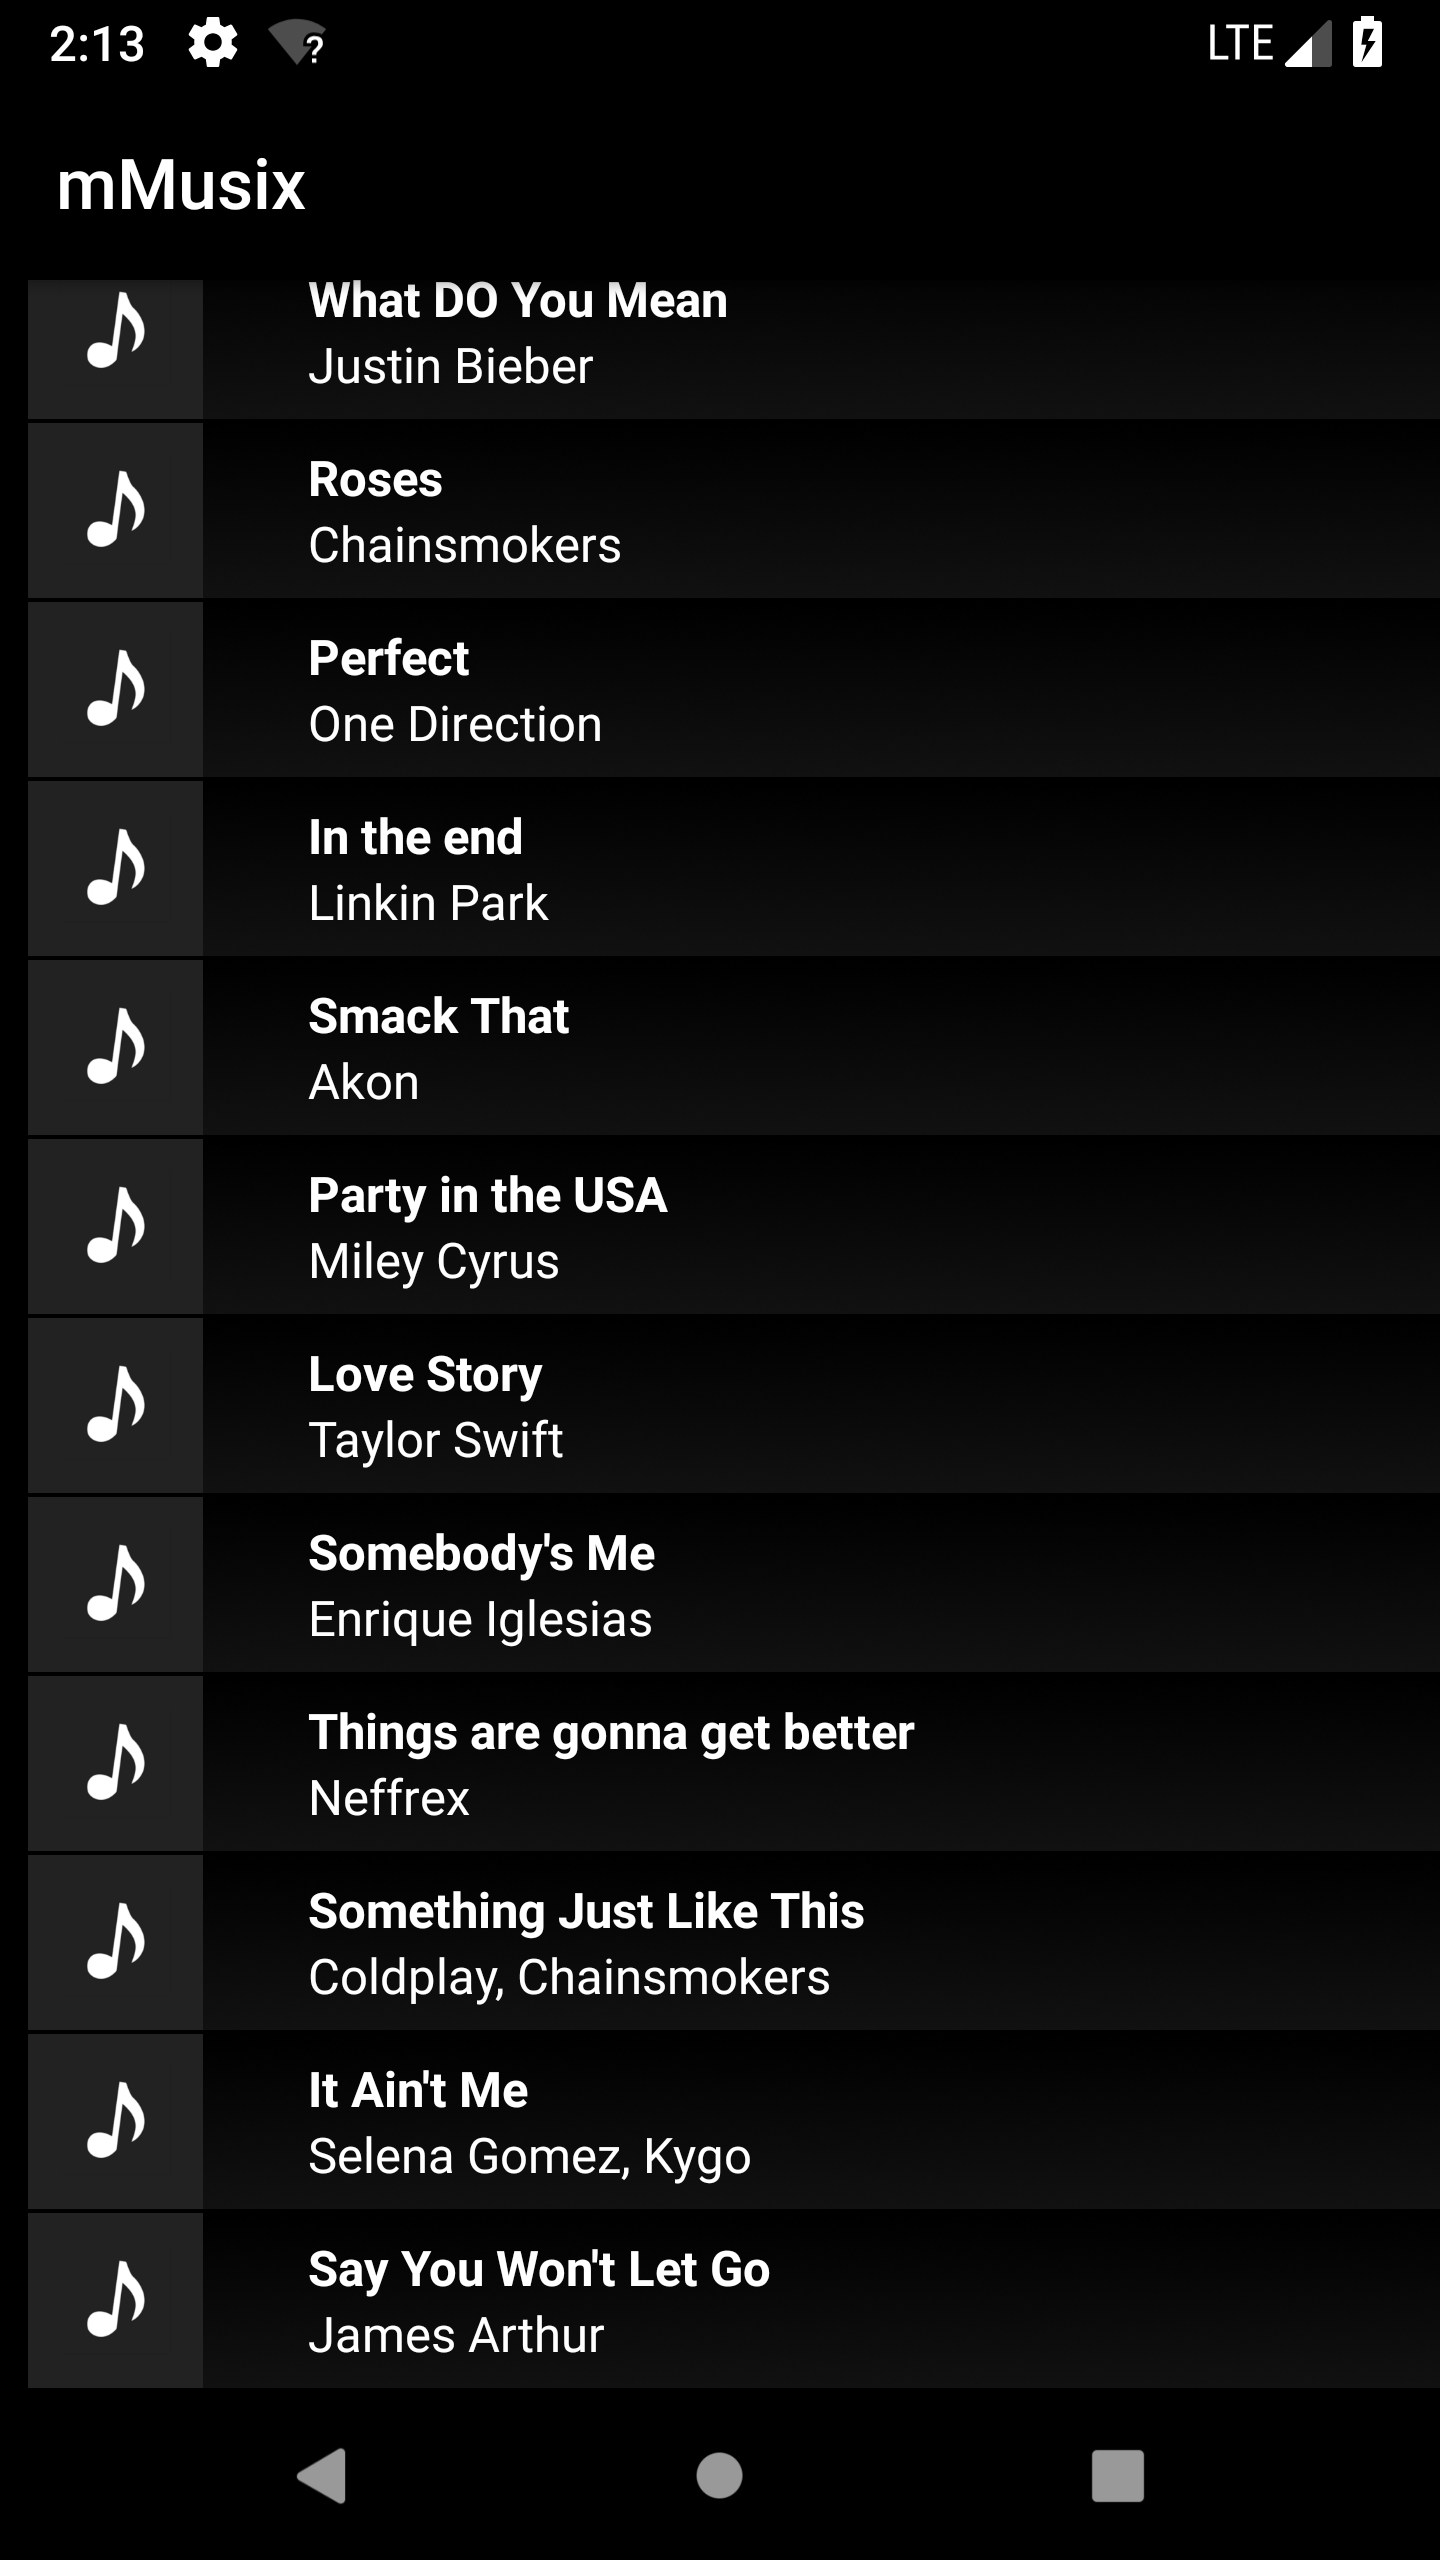
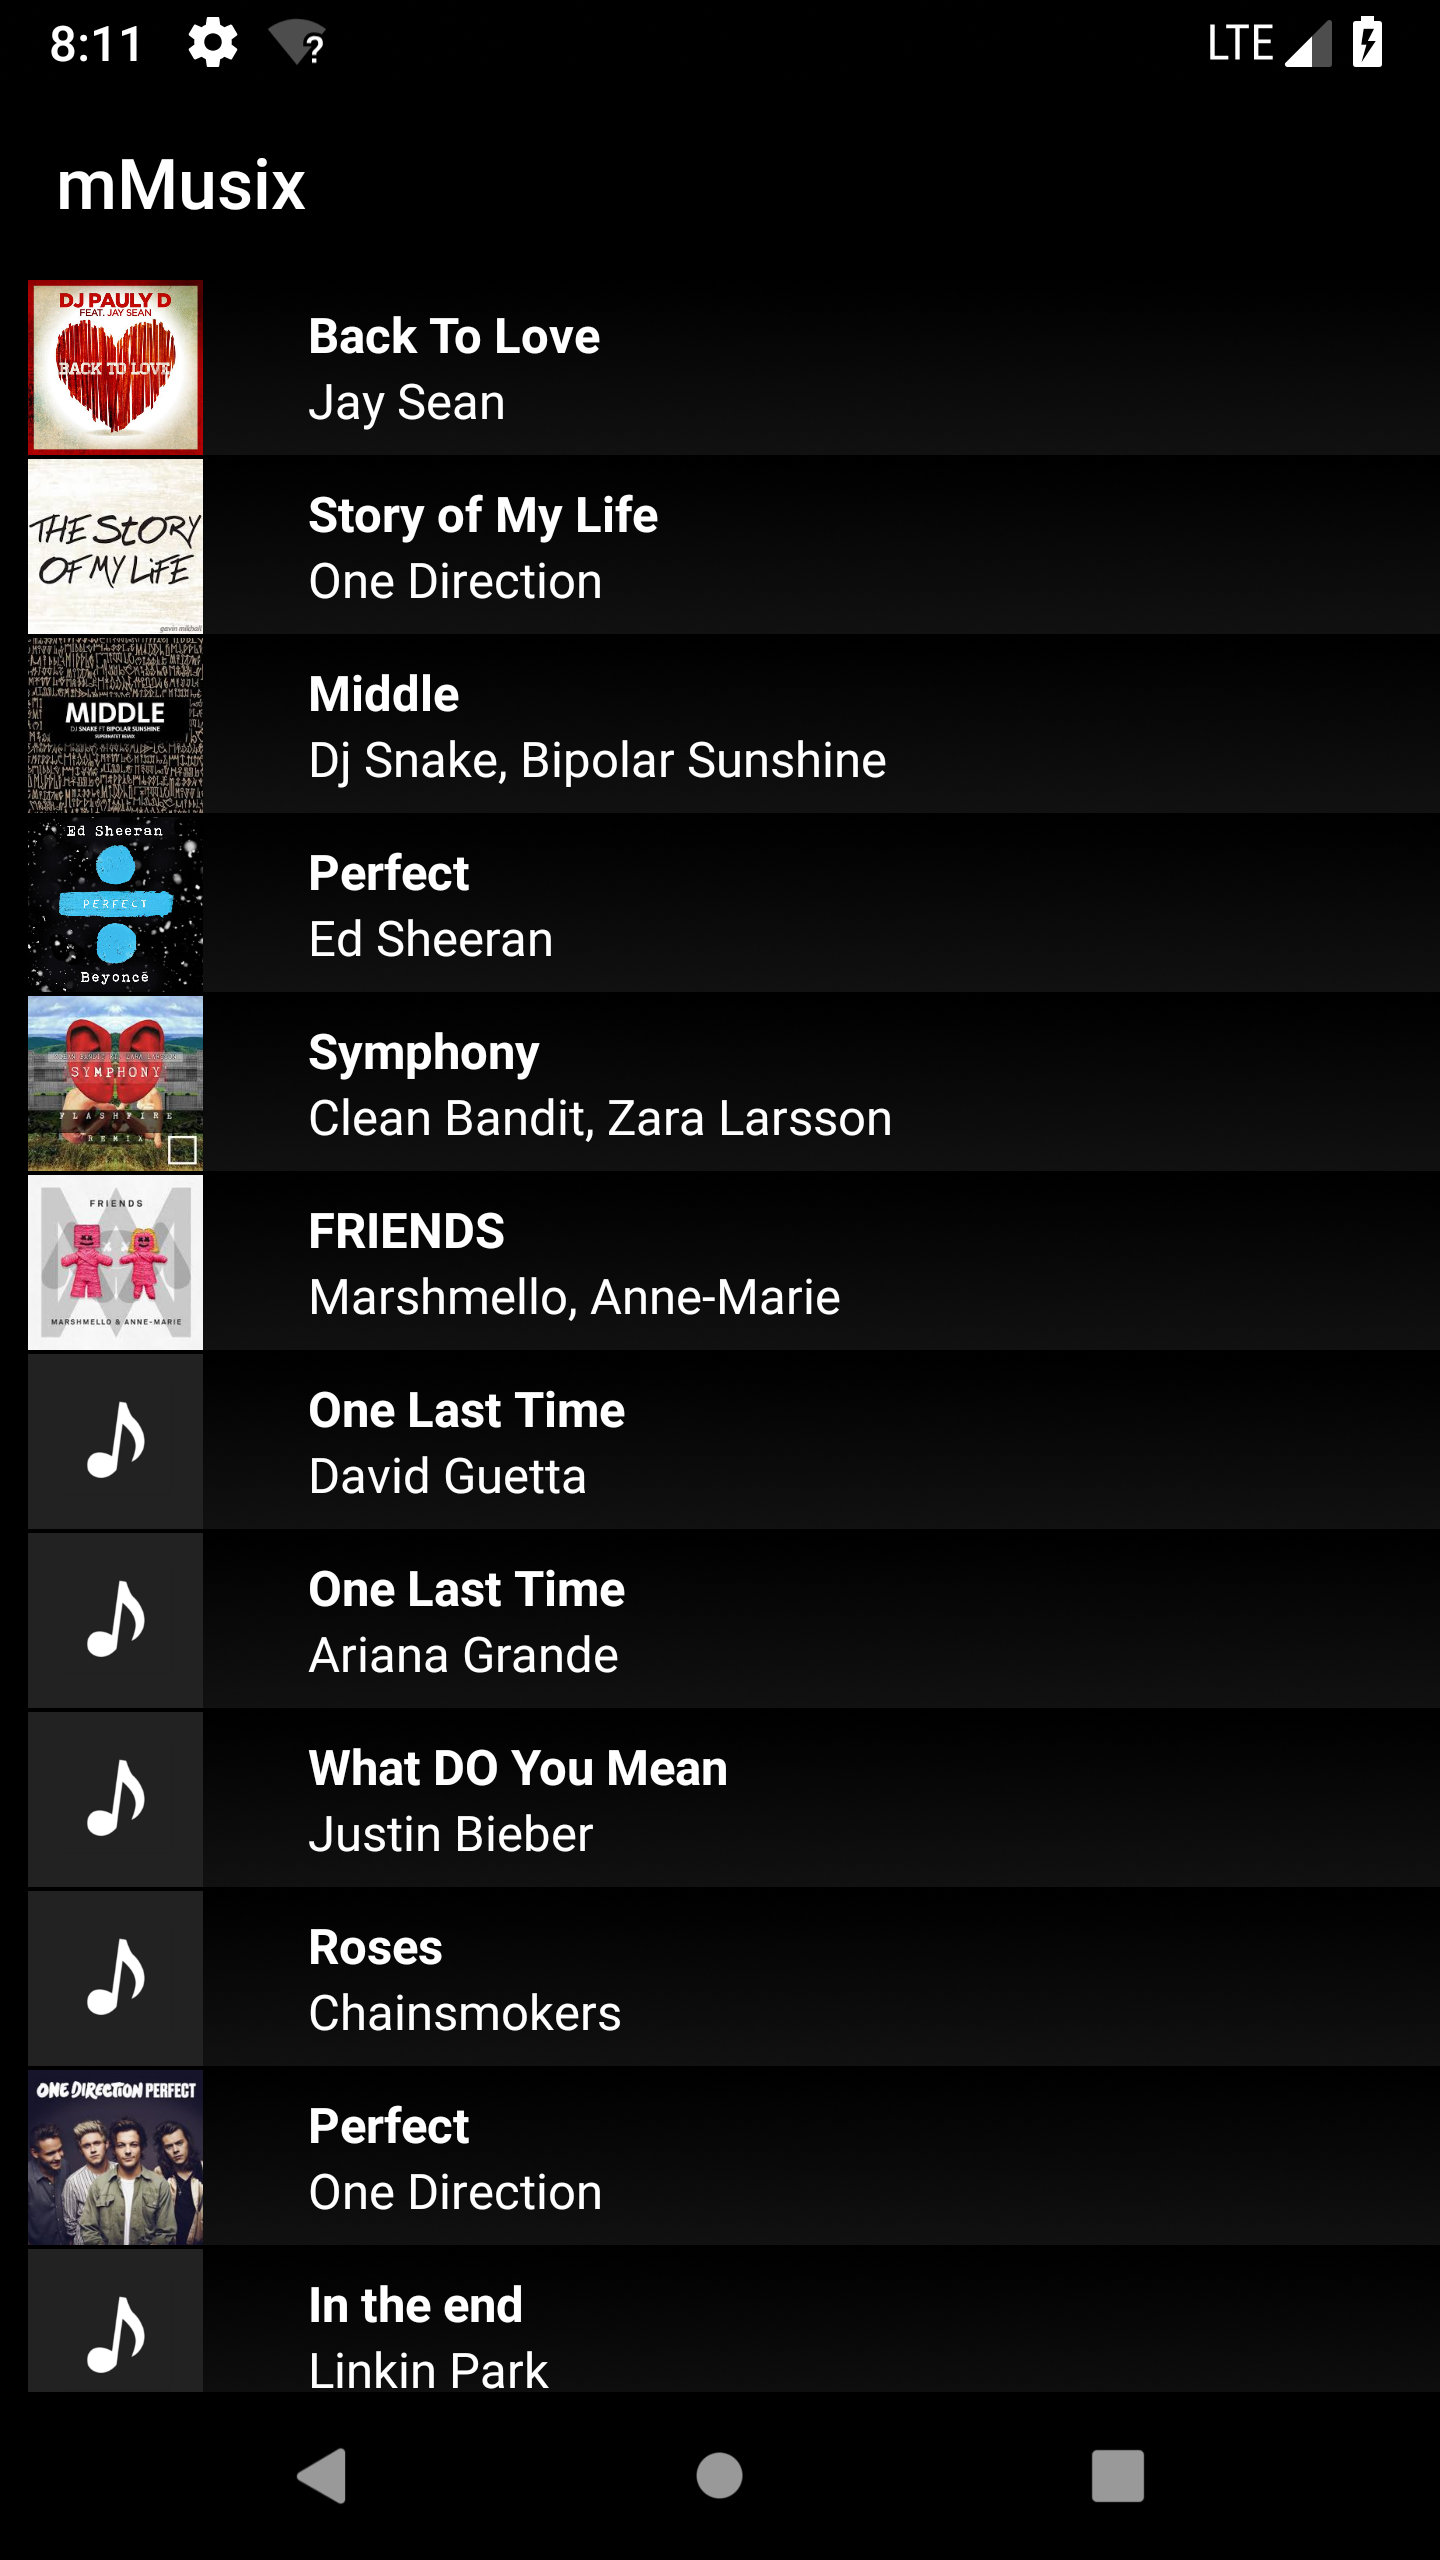
added back button

Changed region(s): [[0.2188, 0.0938, 0.625, 0.9375], [0.0, 0.0938, 0.1562, 0.9375], [0.0312, 0.0, 0.0625, 0.0312]]

diff --git a/app/src/main/java/com/example/dsdatsme/musicplayerui/activities/MainActivity.java b/app/src/main/java/com/example/dsdatsme/musicplayerui/activities/MainActivity.java
@@ -1,5 +1,6 @@
 package com.example.dsdatsme.musicplayerui.activities;
 
+import android.support.v7.app.ActionBar;
 import android.support.v7.app.AppCompatActivity;
 import android.os.Bundle;
 import android.support.v7.widget.DefaultItemAnimator;
@@ -24,6 +25,9 @@ public class MainActivity extends AppCompatActivity {
         super.onCreate(savedInstanceState);
         setContentView(R.layout.activity_main);
 
+        ActionBar actionBar = getSupportActionBar();
+
+
         recyclerView = (RecyclerView) findViewById(R.id.recycler_view);
         mAdapter = new MusicAdapter(musicList, getApplicationContext());
         RecyclerView.LayoutManager mLayoutManager = new LinearLayoutManager(getApplicationContext());
@@ -37,7 +41,7 @@ public class MainActivity extends AppCompatActivity {
         recyclerView.setAdapter(mAdapter);
     }
 
-    // URI is for future prposes if you want to add song url
+    // URI is for future purposes if you want to add song url
     private void prepareMusicData() {
         MusicDatabase music = new MusicDatabase("Jay Sean", "Back To Love", 5,R.drawable.back_to_love_album_art);
         musicList.add(music);
@@ -55,13 +59,13 @@ public class MainActivity extends AppCompatActivity {
         musicList.add(new MusicDatabase("Ariana Grande", "One Last Time", 5,R.drawable.default_music_albumart));
         musicList.add(new MusicDatabase("Justin Bieber", "What DO You Mean", 5,R.drawable.default_music_albumart));
         musicList.add(new MusicDatabase("Chainsmokers", "Roses", 5,R.drawable.default_music_albumart));
-        musicList.add(new MusicDatabase("One Direction", "Perfect", 5,R.drawable.default_music_albumart));
+        musicList.add(new MusicDatabase("One Direction", "Perfect", 5,R.drawable.od_perdect_album_art));
         musicList.add(new MusicDatabase("Linkin Park", "In the end", 5,R.drawable.default_music_albumart));
         musicList.add(new MusicDatabase("Akon", "Smack That", 5,R.drawable.default_music_albumart));
         musicList.add(new MusicDatabase("Miley Cyrus", "Party in the USA", 5,R.drawable.default_music_albumart));
-        musicList.add(new MusicDatabase("Taylor Swift", "Love Story", 5,R.drawable.default_music_albumart));
-        musicList.add(new MusicDatabase("Enrique Iglesias", "Somebody's Me", 5,R.drawable.default_music_albumart));
-        musicList.add(new MusicDatabase("Neffrex", "Things are gonna get better", 5,R.drawable.default_music_albumart));
+        musicList.add(new MusicDatabase("Taylor Swift", "Love Story", 5,R.drawable.love_story_lbum_art));
+        musicList.add(new MusicDatabase("Enrique Iglesias", "Somebody's Me", 5,R.drawable.somebodys_me_album_art));
+        musicList.add(new MusicDatabase("Neffrex", "Things are gonna get better", 5,R.drawable.thingsaregonnagetbetter_album_art));
         musicList.add(new MusicDatabase("Coldplay, Chainsmokers", "Something Just Like This", 5,R.drawable.default_music_albumart));
         musicList.add(new MusicDatabase("Selena Gomez, Kygo", "It Ain't Me", 5,R.drawable.default_music_albumart));
         musicList.add(new MusicDatabase("James Arthur", "Say You Won't Let Go", 5,R.drawable.default_music_albumart));

diff --git a/app/src/main/java/com/example/dsdatsme/musicplayerui/activities/PlayerActivity.java b/app/src/main/java/com/example/dsdatsme/musicplayerui/activities/PlayerActivity.java
@@ -1,14 +1,17 @@
 package com.example.dsdatsme.musicplayerui.activities;
 
+import android.support.v4.app.NavUtils;
 import android.support.v7.app.ActionBar;
 
 import android.content.Intent;
 import android.support.v7.app.AppCompatActivity;
 import android.os.Bundle;
+import android.view.MenuItem;
 import android.view.View;
 import android.widget.Button;
 import android.widget.ImageView;
 import android.widget.TextView;
+import android.widget.Toast;
 
 import com.example.dsdatsme.musicplayerui.R;
 import com.example.dsdatsme.musicplayerui.utils.SquareImageGenerator;
@@ -26,6 +29,7 @@ public class PlayerActivity extends AppCompatActivity {
 
         //hiding action bar
         ActionBar actionBar = getSupportActionBar();
+        actionBar.setDisplayHomeAsUpEnabled(true);
         //actionBar.hide();
 
         actionBar.setDisplayHomeAsUpEnabled(true);
@@ -54,5 +58,16 @@ public class PlayerActivity extends AppCompatActivity {
         artistName.setText(temp);
         int temp2 =  intent.getIntExtra("AlbumArt",R.drawable.default_music_albumart);
         albumArt.setImageResource(temp2);
+    }
+
+    @Override
+    public boolean onOptionsItemSelected(MenuItem item) {
+        switch (item.getItemId()) {
+            // Respond to the action bar's Up/Home button
+            case android.R.id.home:
+                NavUtils.navigateUpFromSameTask(this);
+                return true;
+        }
+        return super.onOptionsItemSelected(item);
     }
 }

diff --git a/app/src/main/java/com/example/dsdatsme/musicplayerui/utils/MusicAdapter.java b/app/src/main/java/com/example/dsdatsme/musicplayerui/utils/MusicAdapter.java
@@ -49,7 +49,7 @@ public class MusicAdapter extends RecyclerView.Adapter<MusicAdapter.MyViewHolder
         final MusicDatabase music = musicList.get(position);
         holder.songName.setText(music.getSong());
         holder.artist.setText(music.getArtist());
-        //holder.albumArt.setImageResource(music.getAlbumArt());
+        holder.albumArt.setImageResource(music.getAlbumArt());
         holder.relativeLayout.setOnClickListener(new View.OnClickListener() {
             @Override
             public void onClick(View v) {

diff --git a/app/src/main/java/com/example/dsdatsme/musicplayerui/utils/MusicDatabase.java b/app/src/main/java/com/example/dsdatsme/musicplayerui/utils/MusicDatabase.java
@@ -6,12 +6,13 @@ public class MusicDatabase {
     private int songURI; //for song link
     private int albumArt; //for setting albumart
 
+
+
     public MusicDatabase(String artist, String song, int song_URI, int albumArt) {
         this.artist = artist;
         this.song = song;
         this.songURI = song_URI;
         this.albumArt = albumArt;
-        //TODO: set album art here
     }
 
     public int getSong_URI() {
